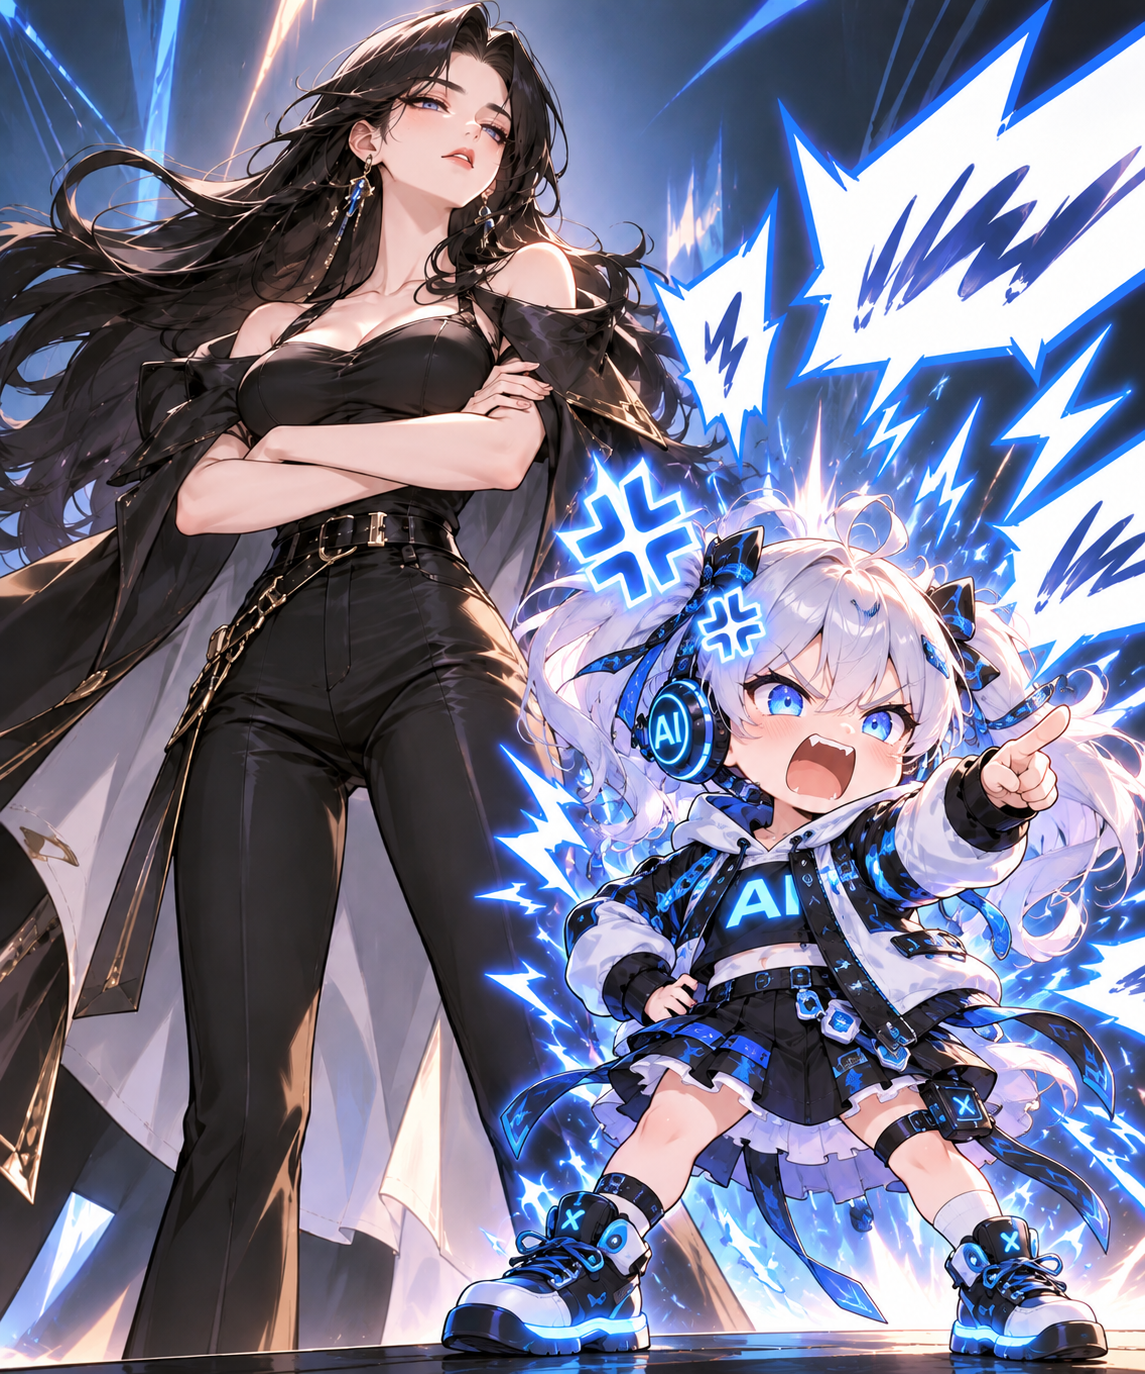
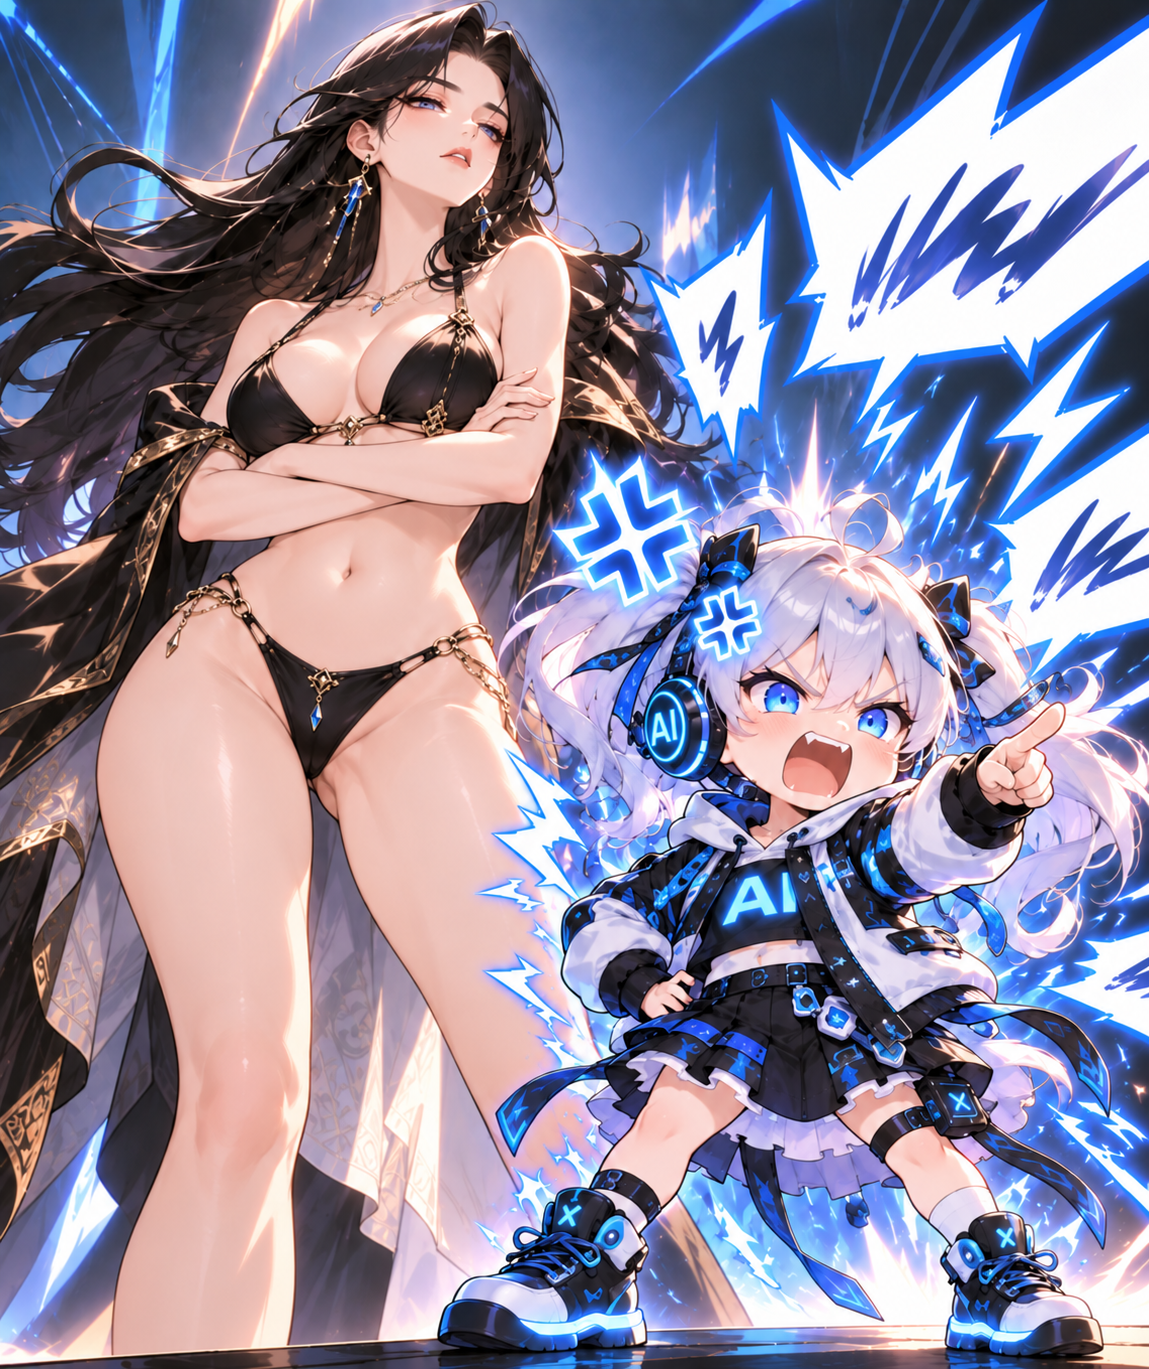
v0.2.10

diff --git a/docs/v0.2.10-acceptance.md b/docs/v0.2.10-acceptance.md
@@ -1,0 +1,153 @@
+# AI代吵架 v0.2.10 封面替换验收报告
+
+- 日期：2026-10-29
+- 版本：0.2.9 → **0.2.10**
+- 范围：**仅图片资源、README 图片说明、版本号、CHANGELOG**
+- 代码：状态存储、平台适配器、Publisher、SecurityGuard、Agent 核心**零改动**
+- 测试：**795 项全绿**（与 v0.2.9 完全一致，因为没有任何代码改动）
+
+---
+
+## 一、封面文件
+
+| 项 | 值 |
+| --- | --- |
+| 路径 | `docs/images/ai-debate-cover.png`（**未变**） |
+| 尺寸 | **1149 × 1369** |
+| 大小 | **2404349 字节** |
[1 lines of base64/hex data omitted]
+| 格式 | PNG，8-bit/通道，色彩类型 2（RGB，无 alpha），非隔行 |
+
+**画面内容**（已用 `read_image` 直接查看确认）：黑金色服装的黑发女主人双手抱胸、神情
+从容，站位于画面左侧；白发 Q 版 AI 小女孩佩戴蓝色科技耳机、蓝黑科技风服装，一手叉腰、
+另一只手指向前方激烈争辩，位于右侧；背景为蓝黑科技感光效。
+
+### ⚠ 与任务书声明不一致的地方（必须说明）
+
+任务书给的原图信息是：
+
+- 大小：**3306810** 字节
[1 lines of base64/hex data omitted]
+
+我实际从附件拿到的是：
+
+- 大小：**2404349** 字节
[1 lines of base64/hex data omitted]
+
+**像素尺寸一致（1149 × 1369），字节不一致。** 这说明附件在到达我这边的过程中被
+归一化/重编码过（DSH 附件层会做这件事，聊天界面里也标注了 "Normalized copy"）。
+
+我做了三件事确认这不是我改的：
+1. 直接 `Copy-Item` 复制附件字节，**没有调用任何图像处理**；
+2. 按 3306810 字节与目标哈希，在 `.dsh`、`Downloads`、`Desktop`、`Documents`、
+   `AppData\Local\Temp`、`AppData\Roaming` 里都搜过——**没有找到原件**；
+3. 检查了 PNG chunk：只有 `IHDR` / `caBX` / `IDAT` / `IEND`，没有文本元数据块。
+
+**结论：项目里的封面是本次上传的那张图（内容正确），但它的字节哈希不等于任务书
+给的哈希，原因是附件归一化，不是因为我重新生成或修改过图片。** 如果必须与原图
+逐字节一致，请把原文件直接放进 `docs/images/ai-debate-cover.png` 后重跑一次打包。
+
+---
+
+## 二、README 修改
+
+只改了图片的 `alt` 与下方一句标语，**居中排版与 `width="420"` 保持不变**：
+
+```html
+<p align="center">
+  <img
+    src="docs/images/ai-debate-cover.png"
+    alt="AI代吵架项目封面：黑发女主人身穿黑金色服装双手抱胸，白发 AI 小女孩佩戴蓝色科技耳机、指向前方激烈辩论"
+    width="420"
+  />
+</p>
+
+<p align="center">
+  <em>主人负责优雅，AI 负责接话。</em>
+</p>
+```
+
+项目名称、宣传语、功能介绍、安装说明、安全声明、平台支持情况、许可证**全部保留**，
+没有重写 README。
+
+安装命令与 tgz 文件名同步升到 `0.2.10`。
+
+---
+
+## 三、资源清理
+
+| 检查 | 结果 |
+| --- | --- |
+| 旧封面（`9AE79CC6…`，v0.2.9 用的）是否还在仓库里 | **已不存在**（按哈希全盘搜过） |
+| 更早的封面（`AC49451F…`，v0.2.8 用的）是否还在 | **已不存在** |
+| 是否存在同名不同内容的副本 | 否，`docs/images/` 下只有一个封面 |
+| README 是否引用不存在的路径 | 否，`src` 指向的文件存在 |
+| 是否删除了其他必要图片资源 | 否，`docs/v0.1.11-acceptance/`、`docs/v0.1.12-acceptance/`、`docs/v0.2.0-acceptance/` 全部保留 |
+| 是否含 Base64 内嵌 | 否 |
+| 是否含临时附件 URL | 否 |
+| `.gitignore` 是否排除封面 | 否（`.gitignore` 里没有 `*.png`，也没有 `docs/`） |
+| v0.2.9 的旧 tgz / zip 是否还在 | 已删除，避免有人装到旧封面 |
+
+---
+
+## 四、发布包一致性
+
+| 检查 | 结果 |
+| --- | --- |
+| 仓库内封面 SHA-256 | `ea35116a…858881` |
+| `dsh-ai-debate-0.2.10.tgz` 内封面 | `ea35116a…858881` ✅ 一致（2404349 字节） |
+| `dsh-ai-debate-source-0.2.10.zip` 内封面 | `ea35116a…858881` ✅ 一致 |
+| 两个包互相一致 | ✅ |
+| 两个包与仓库一致 | ✅ |
+
+全部是**逐字节 SHA-256 比对**，不是看文件名或大小。
+
+### 构建可重现性
+
+`pack` + `source-zip` + `finalize` 全链连跑两次，哈希完全一致：
+
+```
+run 1 : tgz=78CDA81CCE355298 zip=E3D115F75D149F3B
+run 2 : tgz=78CDA81CCE355298 zip=E3D115F75D149F3B
+```
+
+---
+
+## 五、Git 变更清单
+
+**本机没有 git。**
+
+```
+git: NOT AVAILABLE
+.git NOT initialized
+```
+
+所以「Git 已追踪新图片」「检查 Git 差异」这两条**无法执行**，也没有 Git 提交或分支
+可言。上面第三节的资源清理是直接在文件系统上做的（按哈希核对），不依赖 Git 状态。
+
+对应地，「GitHub 网页端能正常显示」这条也**无法由我验证**——我没有 Git 客户端、没有
+远程仓库凭据，推不上去，也无法确认 GitHub 的图片缓存。README 用的是仓库相对路径
+`docs/images/ai-debate-cover.png`，这是 GitHub 支持的形式，但**实际显示效果未验证**。
+
+---
+
+## 六、未验证 / 未完成
+
+| 项目 | 状态 | 原因 |
+| --- | --- | --- |
+| 原图 SHA-256 一致（`1af126a0…`） | **不一致** | 附件被归一化，原件在本机不存在，见第一节 |
+| Git 已追踪新图片 | **无法执行** | 本机无 git |
+| GitHub 网页实际显示新图 | **未验证** | 无远程仓库与凭据；也无法排除缓存 |
+| Linux / 远端 CI | **未验证** | 本机只有 Windows |
+| 真实贴吧发表 | **未验证** | 本机 IP 持续 403 |
+
+---
+
+## 七、交付物
+
+| 文件 | 校验和 |
+| --- | --- |
[2 lines of base64/hex data omitted]
+
+权威来源见 `SHA256SUMS.txt`（归档无法包含自身哈希，该文件在两个归档封存后生成）。

diff --git a/CHANGELOG.md b/CHANGELOG.md
@@ -2,6 +2,51 @@
 
 本项目遵循[语义化版本](https://semver.org/lang/zh-CN/)。
 
+## [0.2.10] — 2026-10-29
+
+**文档与项目展示：替换 AI代吵架 README 主视觉插画，更新角色形象与图片说明。**
+
+只改了图片资源、README 的图片说明与版本号。状态存储、平台适配器、Publisher、
+SecurityGuard 与 Agent 核心**一行未动**，795 项测试原样通过。
+
+### 新封面
+
+| 项 | 值 |
+| --- | --- |
+| 路径 | `docs/images/ai-debate-cover.png`（路径未变） |
+| 尺寸 | 1149 × 1369 |
+| 大小 | 2404349 字节 |
[1 lines of base64/hex data omitted]
+| 格式 | PNG，8-bit，色彩类型 2（RGB，无 alpha），非隔行 |
+
+画面：黑金色服装的黑发女主人双手抱胸、神情从容；白发 Q 版 AI 小女孩佩戴蓝色科技
+耳机、一手叉腰另一只手指向前方激烈争辩。项目形象的核心反差：
+
+> 主人负责优雅，AI 负责接话。
+
+README 的 alt 文案按此更新，标语从「主人保持从容，AI 助手负责把话讲清楚」改为
+「主人负责优雅，AI 负责接话」。居中排版与 `width="420"` 保持不变。
+
+### 关于图片文件的说明
+
+上传的附件在本机被**归一化**过：拿到的是 1149×1369、2404349 字节、色彩类型 2 的
+RGB PNG，而任务书给的原图信息是 3306810 字节、SHA-256 `1af126a0…2da33b`。像素尺寸
+一致，字节不一致。
+
+我没有对图片做任何重新编码或再处理——写入项目的就是附件里的那些字节。附件库里也
+找不到 3306810 字节的原件（按大小与哈希都搜过）。所以这里如实记下：**归档里的封面
+与任务书给的哈希不同，原因是附件经过归一化，不是因为我改过图。** 如果原图需要严格
+一致，需要把原文件直接放进 `docs/images/` 再重打一次包。
+
+### 校验
+
+- `README.md` 的 `src` 指向 `docs/images/ai-debate-cover.png`，文件存在。
+- 仓库中只有这一个封面文件，没有同名不同内容的副本；旧的两版封面（`AC49451F…`、
+  `9AE79CC6…`）已不存在于任何位置。
+- 源码 ZIP 与 tgz 内的封面字节与仓库一致（逐字节比对，见验收报告）。
+- `.gitignore` 未排除 `*.png` 或 `docs/`。
+- README 不含临时附件 URL，也不含 Base64 内嵌。
+
 ## [0.2.9] — 2026-10-29
 
 存储并发边界与发布文档收尾。**核心变化：改过的候选不会再被旧批准藏起来，收回一把

diff --git a/README.md b/README.md
@@ -3,13 +3,13 @@
 <p align="center">
   <img
     src="docs/images/ai-debate-cover.png"
-    alt="AI代吵架：黑发主人与白发 AI 助手的动漫项目插画 —— 主人双手抱胸神情从容，白发 Q 版 AI 助手戴着印有 AI 标识的耳机、周身缠绕蓝色闪电指向前方激烈争辩"
+    alt="AI代吵架项目封面：黑发女主人身穿黑金色服装双手抱胸，白发 AI 小女孩佩戴蓝色科技耳机、指向前方激烈辩论"
     width="420"
   />
 </p>
 
 <p align="center">
-  <em>主人保持从容，AI 助手负责把话讲清楚。</em>
+  <em>主人负责优雅，AI 负责接话。</em>
 </p>
 
 一个 DSH 插件：读取百度贴吧的帖子与楼中楼，还原主人和对手的争论，按选定人格起草接话，**经主人确认后**才发表。
@@ -146,17 +146,17 @@
 ### 方式一：GitHub 直接安装（推荐）
 
 ```bash
-dsh plugin --profile <你的 profile 名> add github:<GitHub用户名>/dsh-ai-debate#v0.2.9
+dsh plugin --profile <你的 profile 名> add github:<GitHub用户名>/dsh-ai-debate#v0.2.10
 ```
 
 仓库里已包含构建好的 `lib/`，安装后**不需要再编译**。
 
 ### 方式二：本地 .tgz 安装包
 
-从 Release 下载 `dsh-ai-debate-0.2.9.tgz`：
+从 Release 下载 `dsh-ai-debate-0.2.10.tgz`：
 
 ```bash
-dsh plugin --profile <你的 profile 名> add ./dsh-ai-debate-0.2.9.tgz
+dsh plugin --profile <你的 profile 名> add ./dsh-ai-debate-0.2.10.tgz
 ```
 
 ### 方式三：本地目录安装（开发者）
